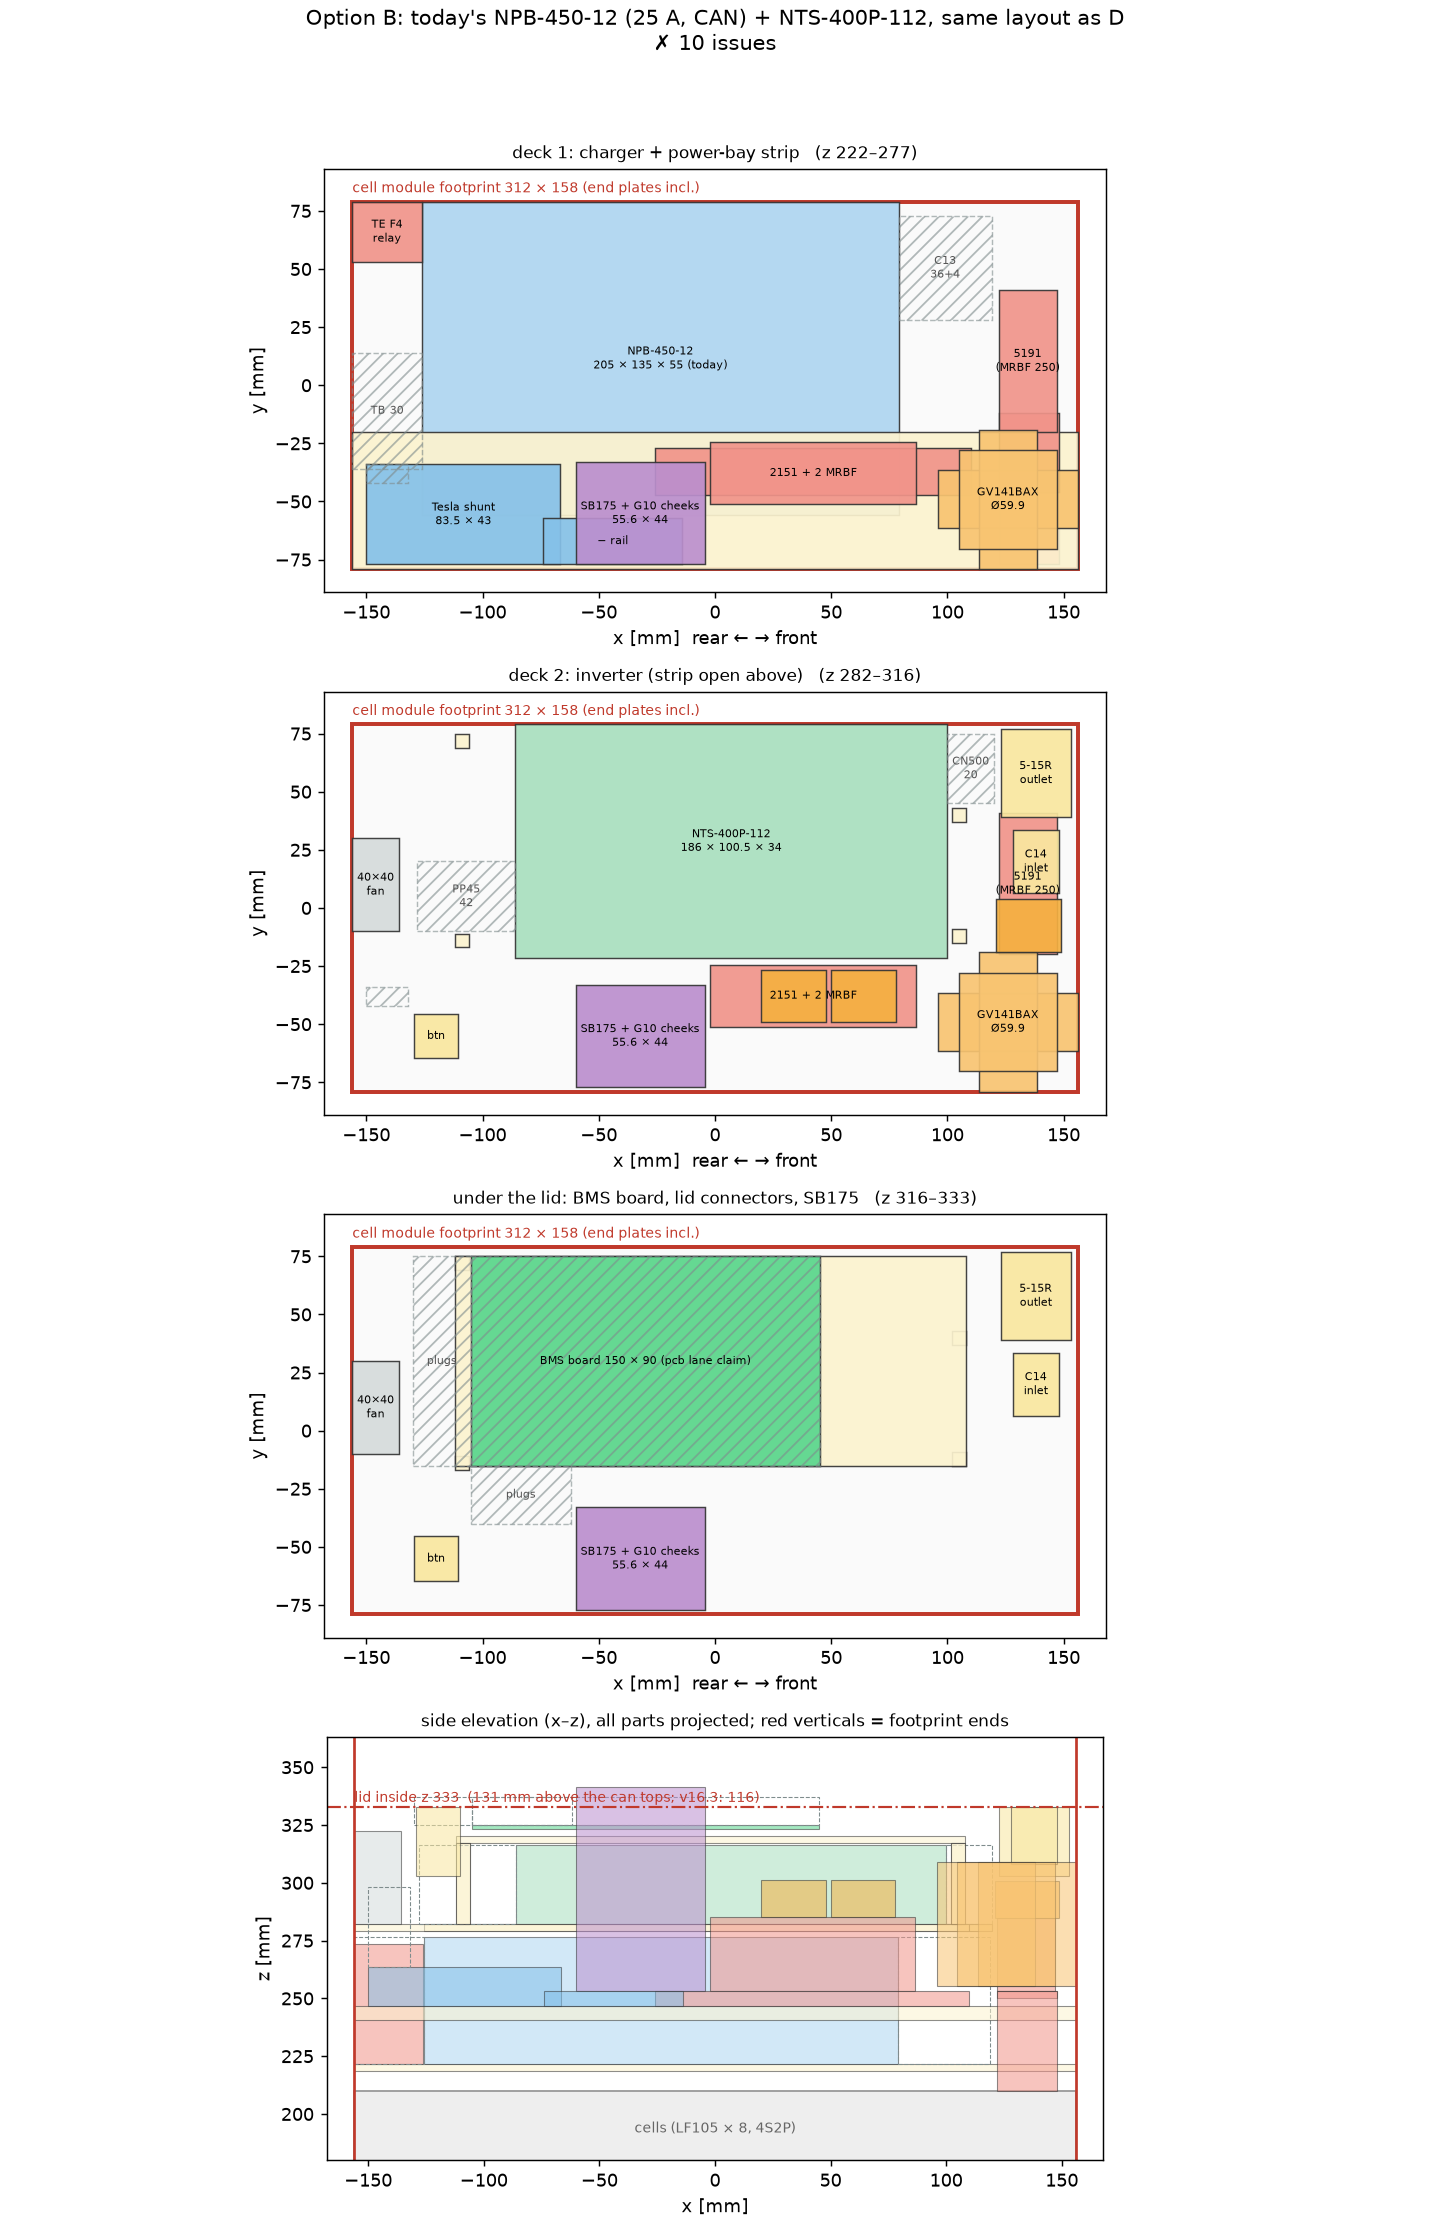
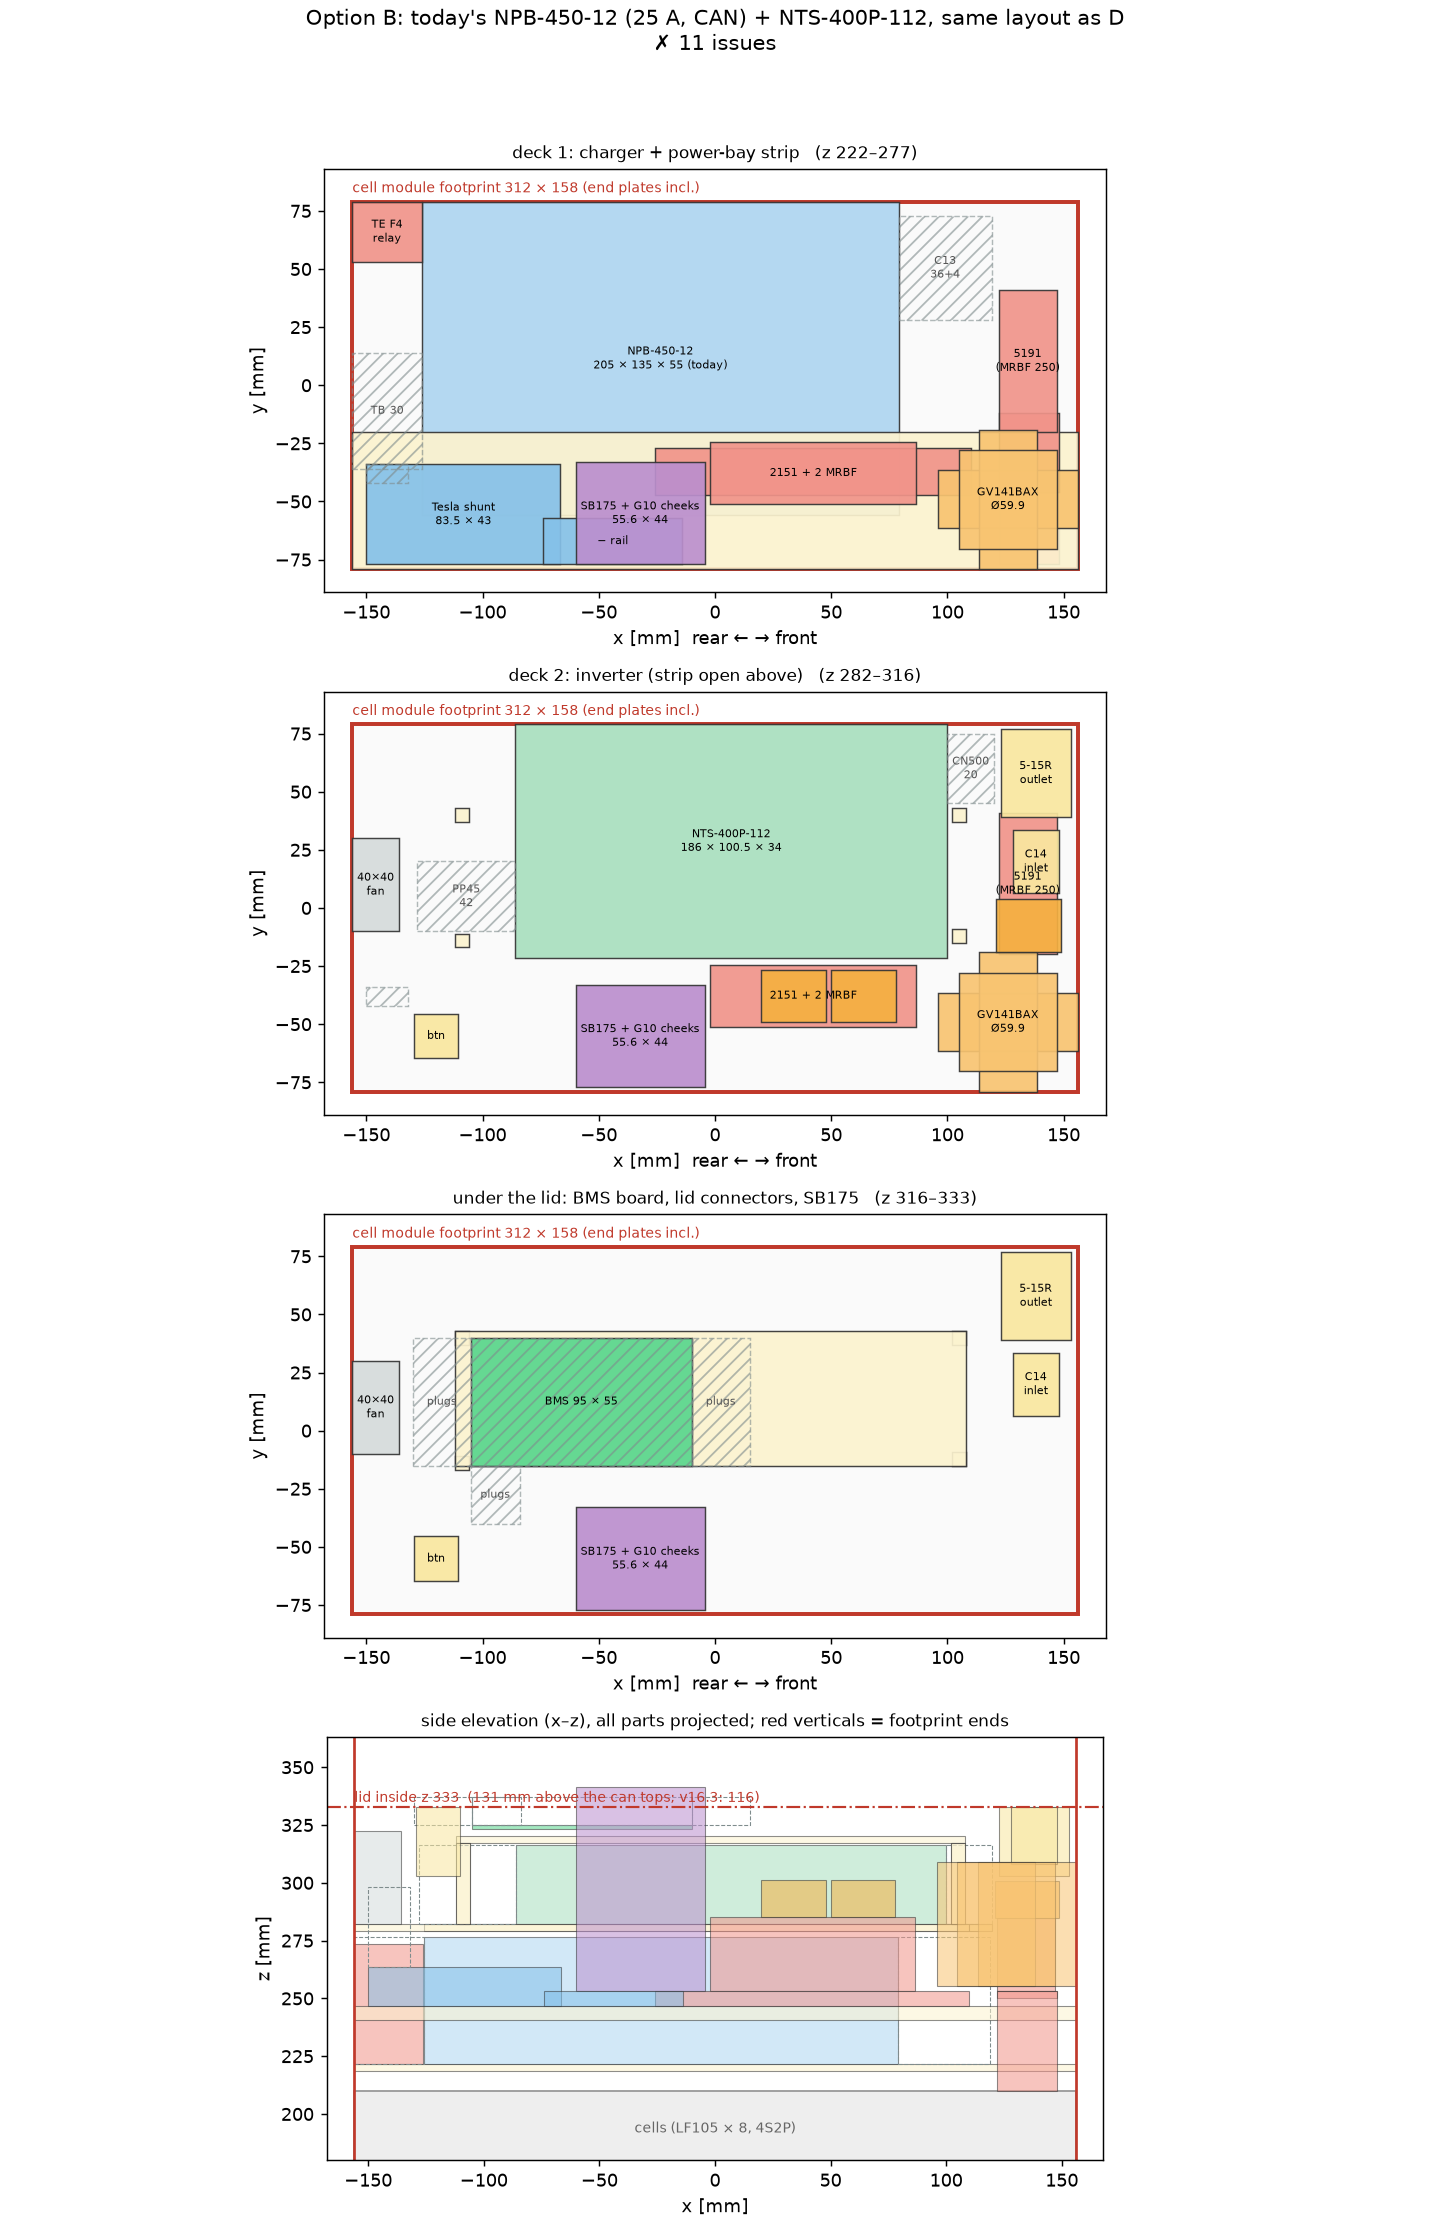
main-battery: accept pcb BMS 95x55 claim, AC-sense + box NTC, TXU0304, B+ tap fuse 5 A; packing 0 issues
Claude-Session: https://claude.ai/code/session_019xZm2LfCuiMwG9xRrujpys

Changed region(s): [[0.2769, 0.5555, 0.6769, 0.6789], [0.3692, 0.648, 0.4, 0.6789]]

diff --git a/cad/analysis/converter_packing.py b/cad/analysis/converter_packing.py
@@ -175,14 +175,18 @@ def opt_D(chg=("chg_npb360", 182.7, 96.0, 49.0, "NPB-360-12TB\n182.7 × 96 × 49
     # 25 mm right-angle plug room beyond -x, and beyond -y for x -105..-62. Carried by a G10 .125 bridge over the inverter
     # (no holes in the NTS-400P), the bridge on 4 posts standing on deck 2 beyond the inverter's ends.
     zr = z2 + 34 + 1.0
-    p.append(B("g10_bms_bridge", -112, 108, -15, 75, zr, zr + G10, "g10", None))
-    for i, (x, y) in enumerate(((-109, -14), (-109, 72), (105, -12), (105, 40))):   # M3 standoffs at the bridge corners
+    # pcb lane claim rev 2026-11-27 (spec/requests/pcb-bms-space-claim.md): 95 x 55 board, x -105..-10, y -15..40,
+    # parts <= 12 mm, 25 mm plug room beyond -x, +x, and -y for x -105..-84. G10 .125 bridge over the inverter
+    # (no holes in the NTS-400P) on 4 posts on deck 2 beyond the inverter's ends.
+    p.append(B("g10_bms_bridge", -112, 108, -15, 43, zr, zr + G10, "g10", None))
+    for i, (x, y) in enumerate(((-109, -14), (-109, 40), (105, -12), (105, 40))):   # M3 standoffs at the bridge corners
         p.append(B(f"bms_post_{i}", x - 3, x + 3, y - 3, y + 3, z2, zr, "g10", None))
     zb = zr + G10 + 3.0
-    p.append(B("bms_board", -105, 45, -15, 75, zb, zb + 1.6, "bms", "BMS board 150 × 90 (pcb lane claim)"))
-    p.append(B("keep_bms_parts", -105, 45, -15, 75, zb + 1.6, zb + 13.6, "keep", None))
-    p.append(B("keep_bms_plugs_x", -130, -105, -15, 75, zb + 1.6, zb + 13.6, "keep", "plugs"))
-    p.append(B("keep_bms_plugs_y", -105, -62, -40, -15, zb + 1.6, zb + 13.6, "keep", "plugs"))
+    p.append(B("bms_board", -105, -10, -15, 40, zb, zb + 1.6, "bms", "BMS 95 × 55"))
+    p.append(B("keep_bms_parts", -105, -10, -15, 40, zb + 1.6, zb + 13.6, "keep", None))
+    p.append(B("keep_bms_plugs_x", -130, -105, -15, 40, zb + 1.6, zb + 13.6, "keep", "plugs"))
+    p.append(B("keep_bms_plugs_xp", -10, 15, -15, 40, zb + 1.6, zb + 13.6, "keep", "plugs"))
+    p.append(B("keep_bms_plugs_y", -105, -84, -40, -15, zb + 1.6, zb + 13.6, "keep", "plugs"))
     # power bay strip (y -79 .. -20)
     p += bay_strip(-20.0, zp1, 156, lid)
     # GV14 (body 59.9 x 55.7, flange 72.5) and the 5191 on the + riser in the front corner

diff --git a/spec/interface.md b/spec/interface.md
@@ -35,23 +35,25 @@ Single source of truth for numbers that more than one lane uses. Only `main-batt
 **Scope (Chris, 2026-11-27):**
 - BQ76952: 5 flex taps, 6 NTCs, balancing, protection;
 - ESP32-S3-WROOM-1U (18 × 19.2 mm ⚠) with Wi-Fi;
-- Tesla shunt SPI (TXU0104, 5 V supply);
+- Tesla shunt SPI (**TXU0304**: 3 out + 1 in, TI SCES935A; was TXU0104, corrected by pcb 2026-11-27; 5 V supply);
 - GV14 coil driver, enabled by ESP32 **AND** BQ in hardware;
 - precharge relay + **Vishay AC05 10 Ω 5 W cemented wirewound (AC05000001009JAC00), axial, through-hole on the BMS board, no heatsink** between the B+ and LOAD+ taps (power-train.md §9);
 - inverter remote off;
 - charger-relay coil driver;
 - 2 A fused pack tap → 5 V buck → 3.3 V, SHUTDOWN ≈ 7 µA, UV latch;
 - IMD divider;
-- lid button and LED-board link.
+- lid button and LED-board link;
+- **AC-present sense**: one wire from the charger side of the charger relay to a divider into an ESP32 ADC (the NPB-360 has no AC-OK signal);
+- **box-air NTC** on an ESP32 ADC (all BQ76952 thermistor pins are used), for the charge-pause thermostat.
 
 No power current on the board. The CAN transceiver and the pack-fan header are dropped.
 
 | Item | Value | Ref |
 |---|---|---|
-| Size | **150 × 90 × 1.6 mm** ⚠ estimate (no schematic yet) | spec/requests/pcb-bms-space-claim.md (accepted 2026-11-27) |
-| Position | x −105…45, y −15…75, flat over the inverter | same |
+| Size | **95 × 55 × 1.6 mm, 4 layers**, proven by pcb with real footprints (109 parts, 0 overlaps, 49 % occupancy). Chris rejected 150 × 90 | spec/requests/pcb-bms-space-claim.md rev 2026-11-27 (accepted) |
+| Position | x −105…−10, y −15…40, flat over the inverter | same |
 | Height | Top parts ≤ 12 mm incl. mated plugs; no bottom parts; THT tails ≤ 2.5 mm | same |
-| Mounting | 4 × M3, 5 mm in from the edges, on **3 mm standoffs** on a **G10 .125 bridge** (SCS) spanning the inverter. The bridge stands on 4 M3 posts on deck 2 beyond the inverter's ends (x −109, +105; y −12, +72). The −x post screw heads stay below the board top (z 319.1): they sit inside the board's −x plug room (pcb, 2026-11-27). Board underside z 317.5, parts top z 331.1, 1.9 mm under the lid. Nothing touches the NTS-400P | converter_packing.py (0 issues) |
-| Plug room | 25 mm beyond the −x edge, and beyond the −y edge for x −105…−62 | pcb claim |
+| Mounting | 4 × M3, 5 mm in from the edges, on **3 mm standoffs** on a **G10 .125 bridge** (SCS) spanning the inverter. The bridge stands on 4 M3 posts on deck 2 beyond the inverter's ends (x −109 / +105; y −14 / −12 / +40); the bridge is 220 × 58 mm. The −x post screw heads stay below the board top (z 319.1): they sit inside the board's −x plug room (pcb, 2026-11-27). Board underside z 317.5, parts top z 331.1, 1.9 mm under the lid. Nothing touches the NTS-400P | converter_packing.py (0 issues) |
+| Plug room | 25 mm beyond the −x edge, the +x edge (x −10…15, z 318–333: confirmed free), and the −y edge for x −105…−84 | pcb claim; converter_packing.py 0 issues |
 | Antenna | U.FL coax from the WROOM-1U to a flex antenna behind the clear acrylic light-pipe slot in the front plate, as in v16; ≈ 150–200 mm coax ⚠. The lid and shell are aluminium, so a PCB antenna under the lid won't radiate | signal-wiring.md |
-| Taps | B+ = in-bar after the main fuse, before the GV14; LOAD+ = 2151 inverter-fuse stud. 18 AWG, 2 A ATM inline fuse at each copper end | signal-wiring.md §3b–3d |
+| Taps | B+ = in-bar after the main fuse, before the GV14; LOAD+ = 2151 inverter-fuse stud. 18 AWG. **B+ fuse 5 A ATM** (was 2 A: the GV14's 3.9 A, 75 ms pick-up is 195 % of a 2 A fuse; 5 A still protects 18 AWG). LOAD+ fuse 2 A ATM (precharge peak 1.46 A) | signal-wiring.md §3b–3d; pcb 2026-11-27 |

diff --git a/docs/converters.md b/docs/converters.md
@@ -110,7 +110,7 @@ So the strip is **≥ 59 mm**, which leaves **≤ 96 mm of width for the convert
   - MEAN WELL's 40 × 40 × 20 fan at the rear wall, 50 mm from the DC face (its rated condition), drawing air in through the rear grid;
   - CN500 at the front.
 - **Under the lid:**
-  - BMS board 150 × 90 (pcb lane claim, 2026-11-27) on a G10 .125 bridge over the inverter (4 corner posts on deck 2, nothing touches the NTS-400P); parts top z 331.1;
+  - BMS board **95 × 55** (pcb lane, proven with real footprints; 150 × 90 rejected by Chris) at x −105…−10, y −15…40, on a G10 .125 bridge over the inverter (4 posts on deck 2, nothing touches the NTS-400P); parts top z 331.1;
   - C14 inlet and NEMA outlet above the front corner, next to the charger's C14 and the inverter's CN500 (short AC runs);
   - button at the rear;
   - SB175 through the lid over the strip (mating face 8.4 mm above the lid top, as in C1).
